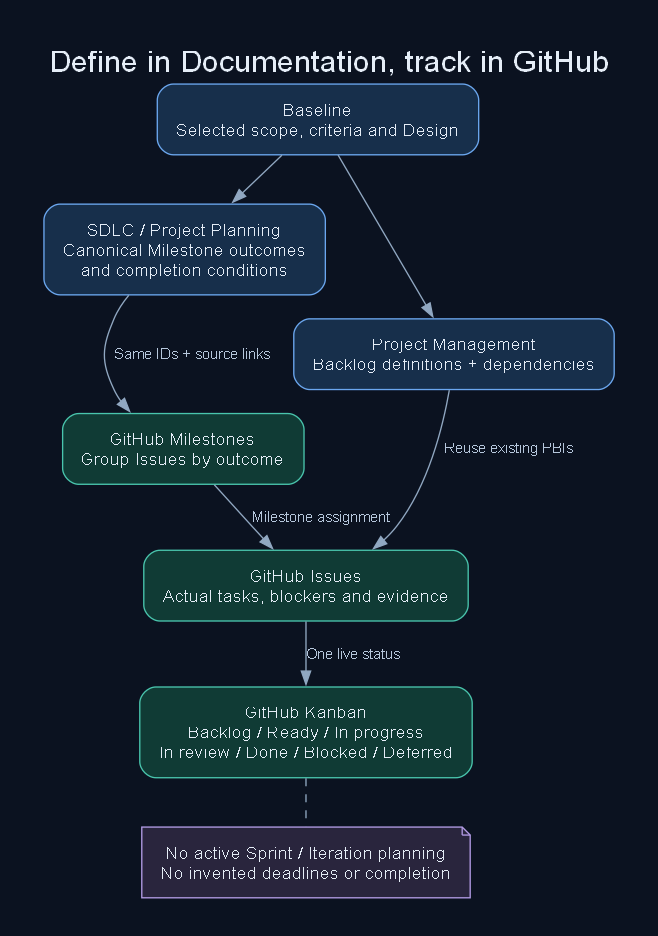
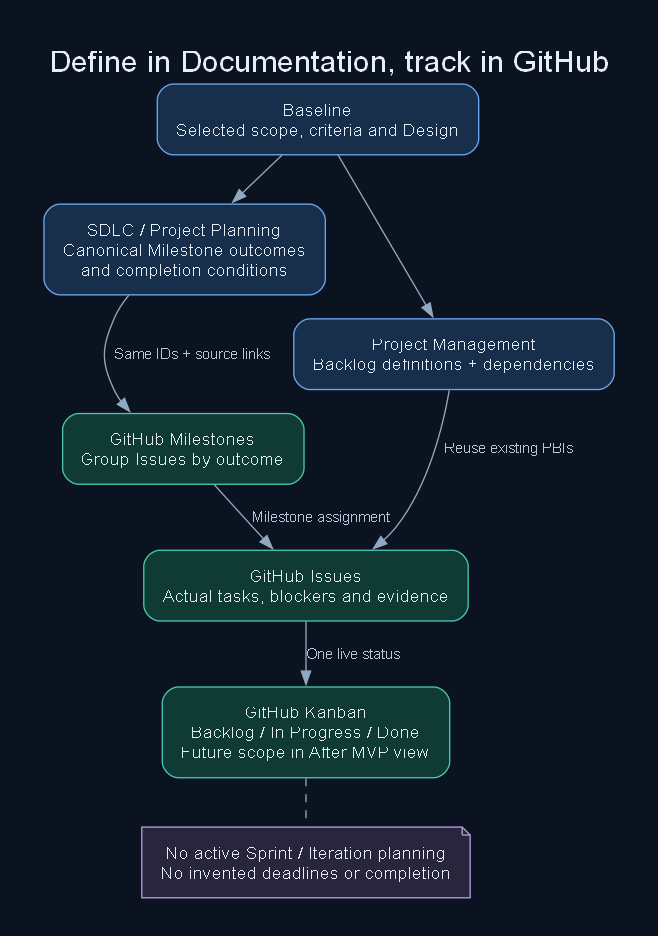
Simplify MVP tracking to three honest execution states

Changed region(s): [[0.2128, 0.7126, 0.6383, 0.8365], [0.6687, 0.7126, 0.7295, 0.8365]]

diff --git a/docs/MVP/Project-Management/product-backlog.md b/docs/MVP/Project-Management/product-backlog.md
@@ -170,7 +170,7 @@ Advanced general backlog/Sprints/configurable boards and advanced Git milestones
 
 Each GitHub issue has one stable PBI identity, outcome, dependencies, links to exact selected criteria and a verification checklist. Large packages may be decomposed into linked child tasks when execution begins. A broad issue title is not a completed plan or test result.
 
-Use Backlog → Ready → In progress → In review → Done; use Blocked with an explicit dependency/next action and Deferred for after-MVP work. Ready requires satisfied dependencies and an executable next action. Done requires actual outcome and relevant verification evidence, not issue creation or elapsed target date. Do not create Sprint/Iteration assignments now. No Sprint plan is part of the current Documentation.
+Use Backlog → In Progress → Done. All packages start in Backlog; move a package to In Progress only when work actually starts and its prerequisites are satisfied. Done requires verified completion criteria and linked evidence. Record blockers and review notes in the Issue without adding columns. Keep after-MVP work in the separate After MVP view using its scope label. Product Backlog is a table of the same MVP Issues shown on MVP Kanban, not a second task list. No active Sprint or completed implementation is asserted.
 
 No implementation is started by reconciling this backlog. Estimates and delivery dates remain uncommitted; available capacity is 20 total project hours/week.
 

diff --git a/docs/MVP/Project-Management/version-1-delivery-plan.md b/docs/MVP/Project-Management/version-1-delivery-plan.md
@@ -20,7 +20,7 @@ Finalize milestone definitions, MVP/future allocations, package criteria and dep
 
 ## Kanban and readiness
 
-Backlog → Ready → In progress → In review → Done. Blocked records a real blocker and next action; Deferred contains after-MVP work. Use the existing board where possible; preserve unrelated items, custom fields and views. Keep only actually executable items Ready. Do not create or assign a Sprint/Iteration during this setup. If the existing board uses equivalent status names, record the mapping rather than creating competing fields.
+Backlog → In Progress → Done. All packages start in Backlog. Move work to In Progress only when execution actually starts and prerequisites are satisfied. Keep blockers and review notes in the Issue. After-MVP scope is separated by labels and its own view, rather than a status column. Product Backlog shows the same MVP Issues as a table. No Sprint/Iteration is assigned.
 
 Select the next task only after prerequisites are checked. Move a task to Done only with linked outcome/criterion evidence, updated documentation and a recorded review. Record a failed check explicitly; do not drop a security or restore condition to clear a column.
 
